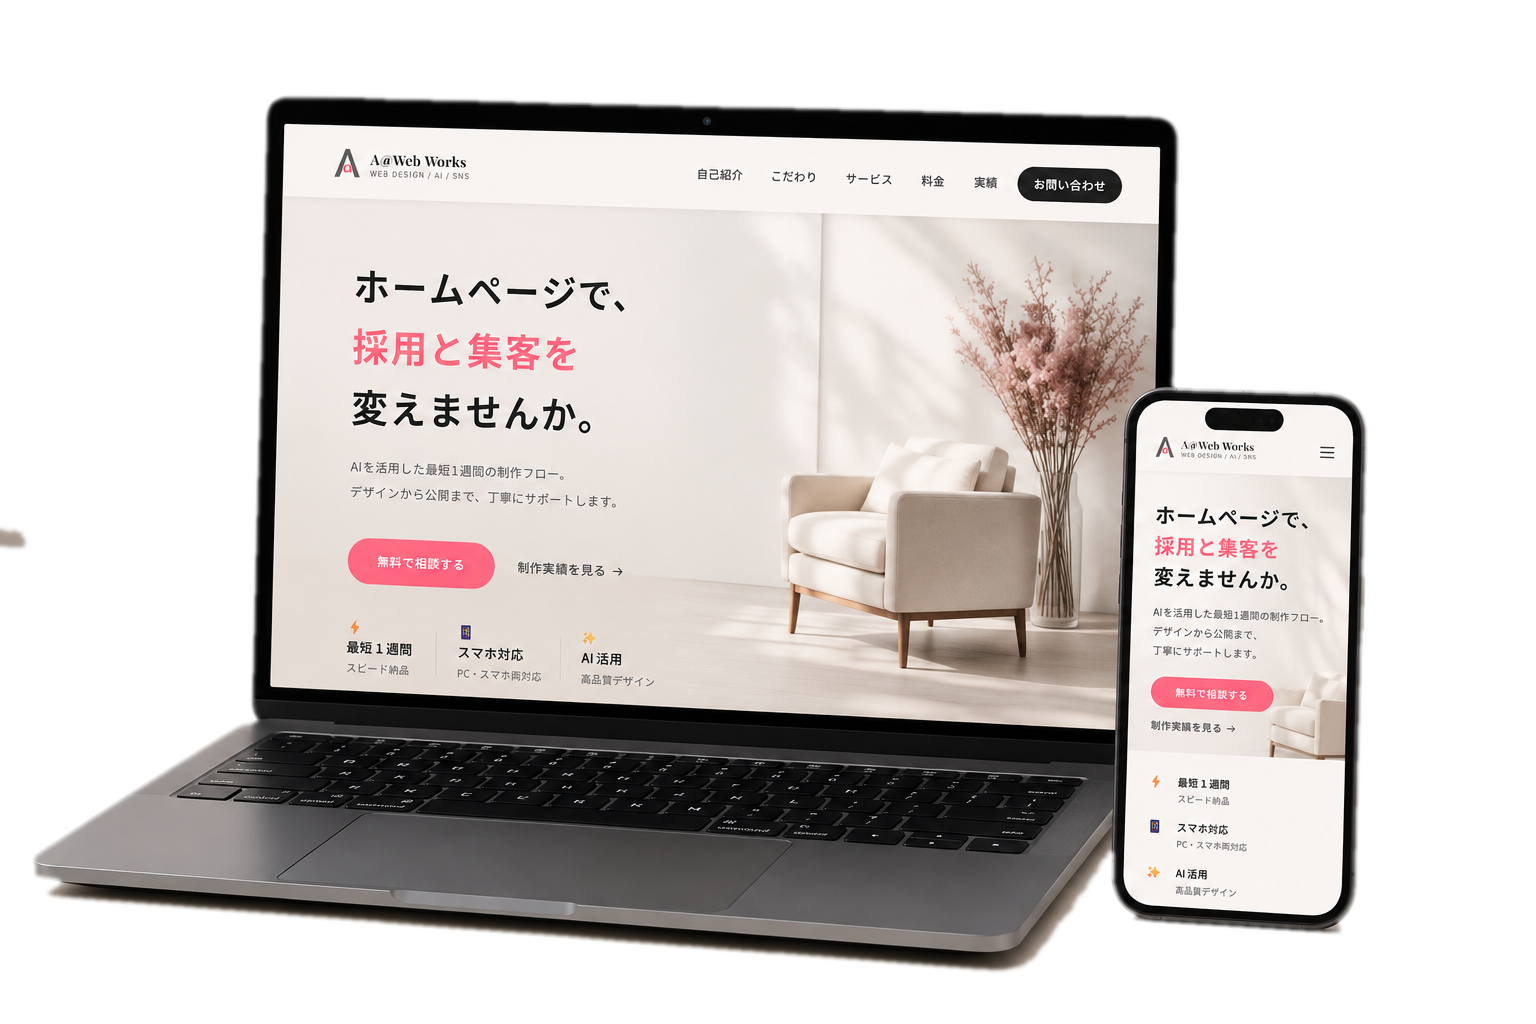
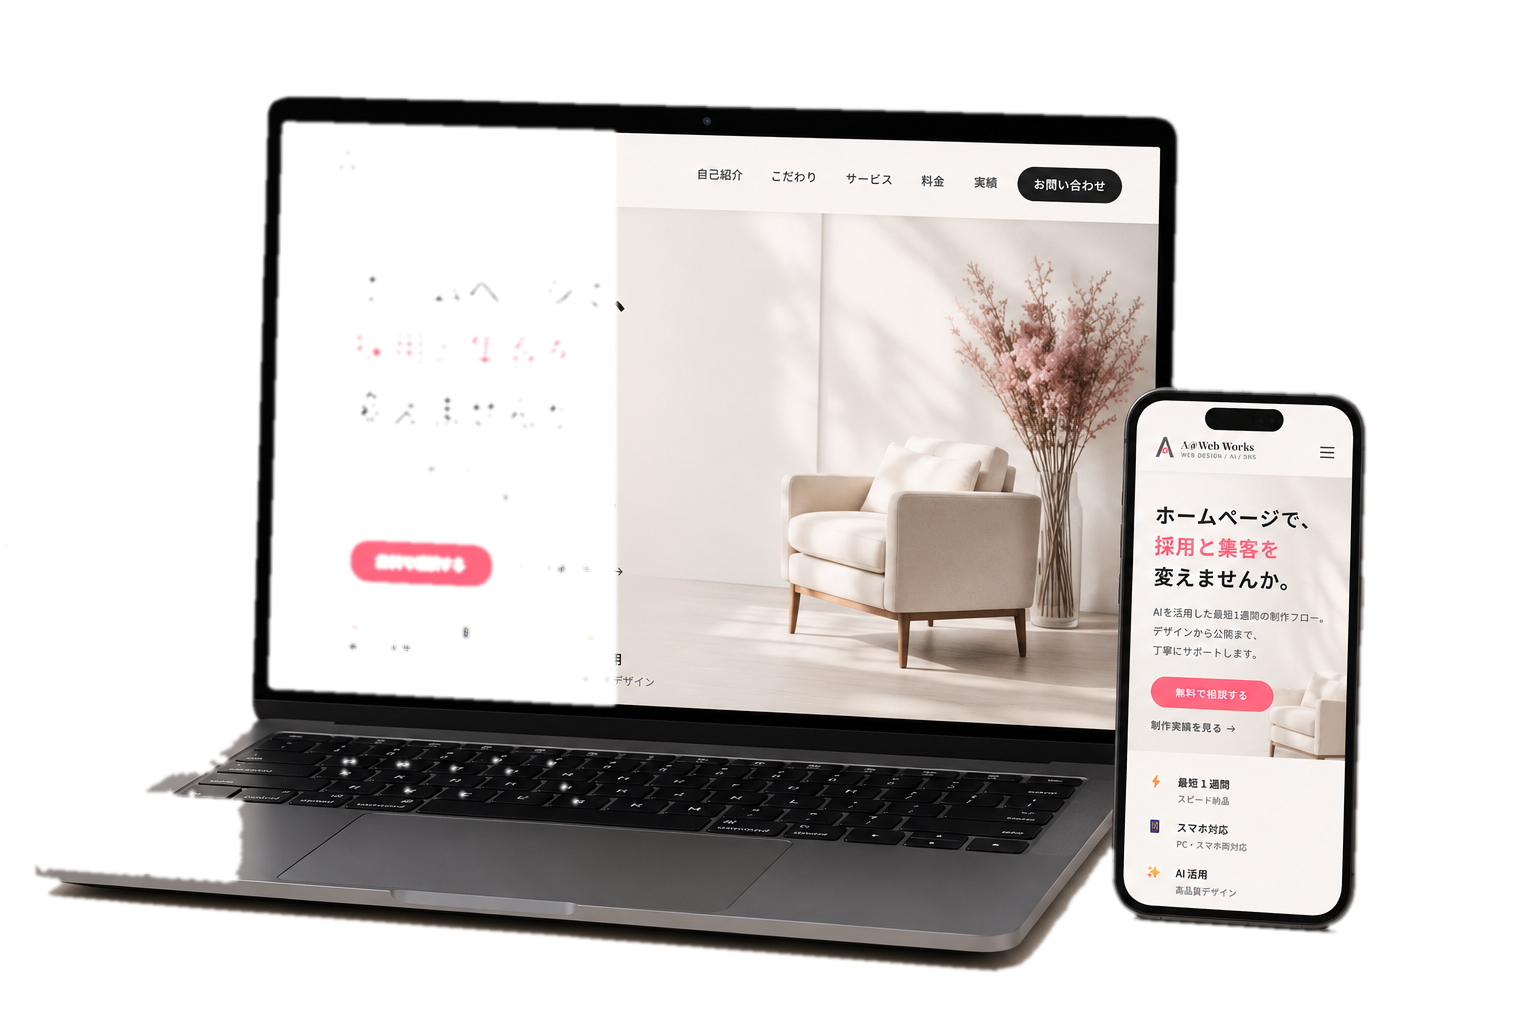
ヒーロー左寄り修正・影除去画像を更新
- hero__inner gap 80px → 40px に縮小（テキストとデバイスの視覚的なバランス改善）
- hero__devices に object-position: left center を追加（デバイス画像を列左端に揃え空白を削減）
- 左側影を透明化した hero-devices-nobg.png を更新（左40%エリアで背景色に近いピクセルを除去）
- CSS v26 → v27

Claude-Session: https://claude.ai/code/session_01KzNckFU2Pp531BfWSfTmUh

diff --git a/main.css b/main.css
@@ -496,7 +496,7 @@ ul, ol { list-style: none; }
   z-index: 1;
   display: grid;
   grid-template-columns: 1fr 1fr;
-  gap: 80px;
+  gap: 40px;
   align-items: center;
 }
 
@@ -637,6 +637,7 @@ ul, ol { list-style: none; }
   height: auto;
   display: block;
   object-fit: contain;
+  object-position: left center;
 }
 
 /* スクロールインジケーター */

diff --git a/index.html b/index.html
@@ -34,7 +34,7 @@
   <link rel="preconnect" href="https://fonts.googleapis.com">
   <link rel="preconnect" href="https://fonts.gstatic.com" crossorigin>
   <link href="https://fonts.googleapis.com/css2?family=Cormorant+Garamond:ital,wght@0,400;0,500;0,600;1,400&family=Inter:wght@400;600;700&family=Noto+Sans+JP:wght@300;400;500;600&family=Playfair+Display:wght@400;600;700&display=swap" rel="stylesheet">
-  <link rel="stylesheet" href="main.css?v=26">
+  <link rel="stylesheet" href="main.css?v=27">
 
   <!-- 構造化データ -->
   <script type="application/ld+json">